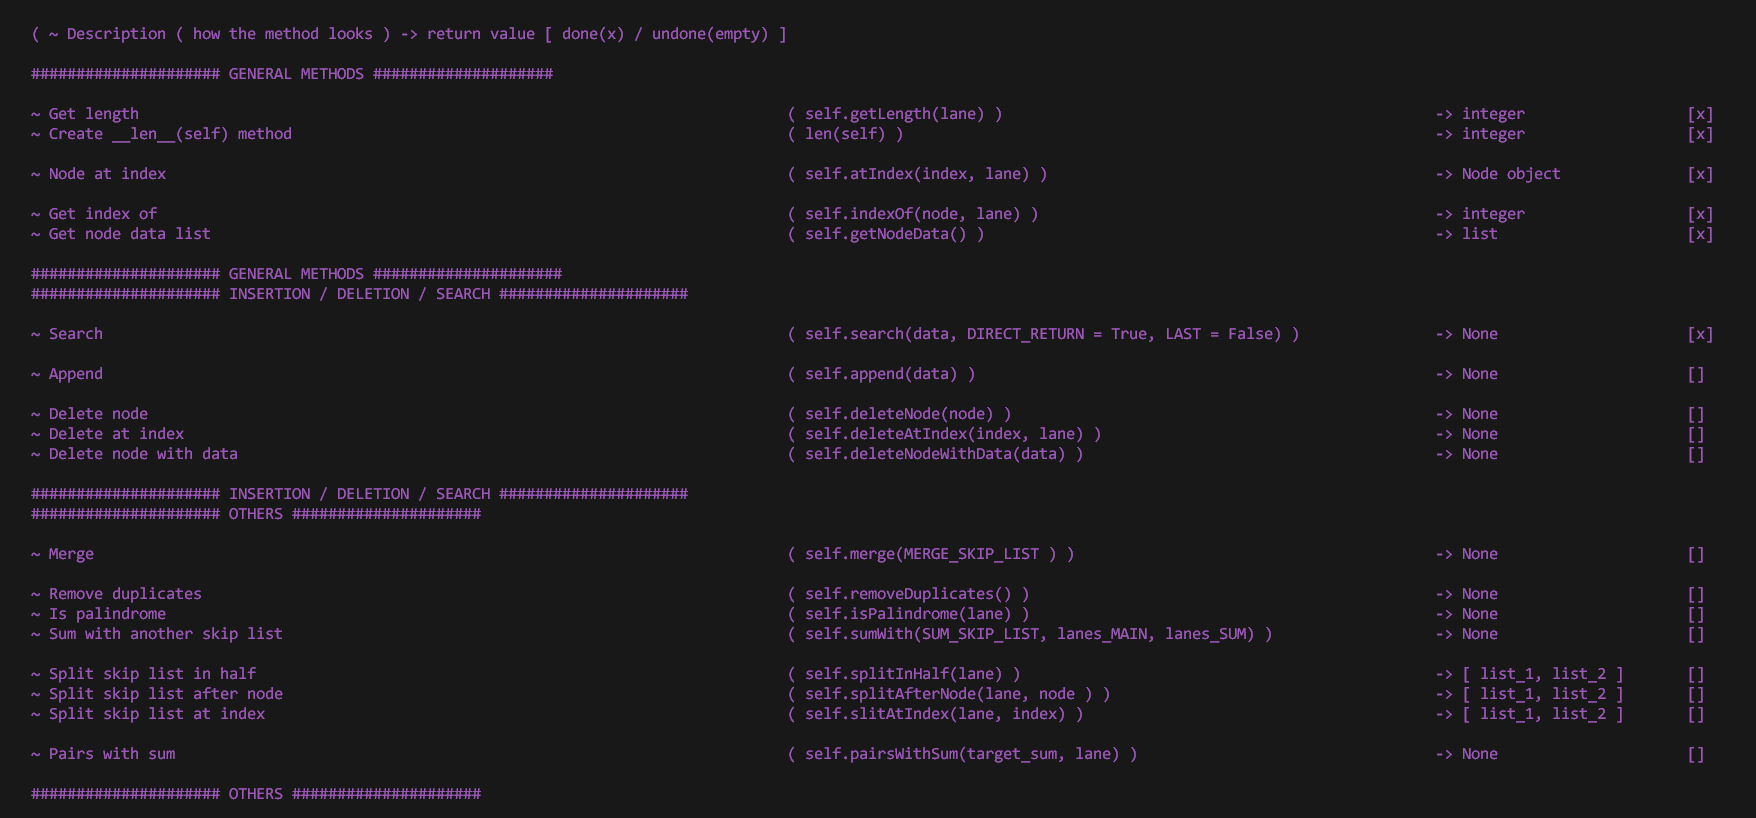
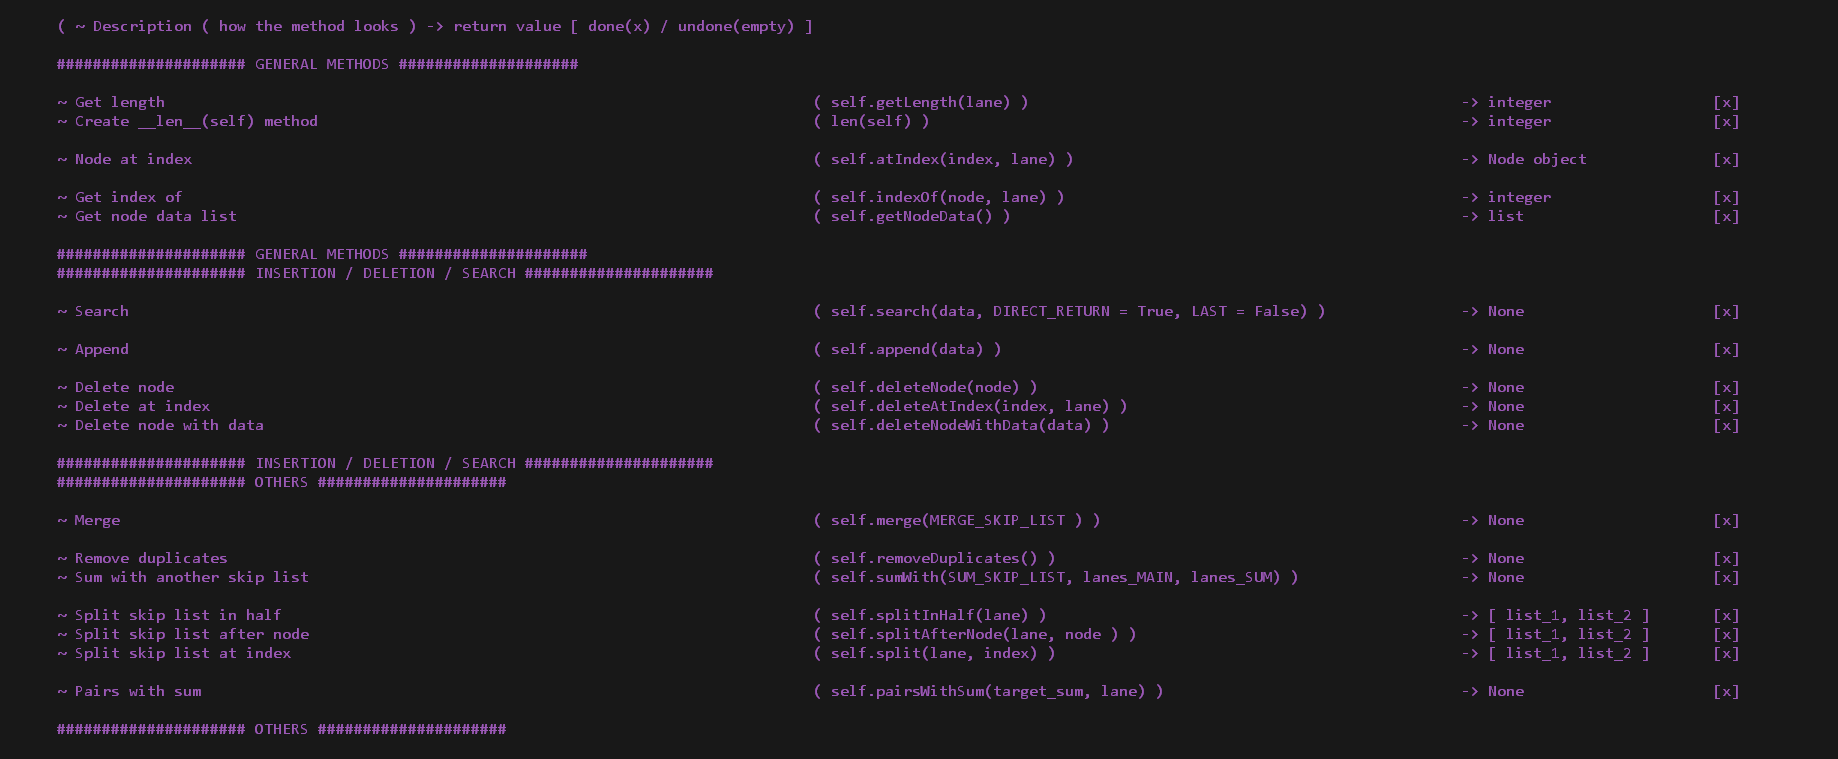
Skip List - Unlimited Lanes - Final Code

diff --git a/Data structures ( code in python )/Linear Data Structures/Skip List ( Python Code )/SkipList_UnlimitedLanes_FinalCode.py b/Data structures ( code in python )/Linear Data Structures/Skip List ( Python Code )/SkipList_UnlimitedLanes_FinalCode.py
@@ -32,26 +32,25 @@ class SkipList(object):
 
         ~ Search                                                                            ( self.search(data, DIRECT_RETURN = True, LAST = False) )               -> None                     [x]
 
-        ~ Append                                                                            ( self.append(data) )                                                   -> None                     []
+        ~ Append                                                                            ( self.append(data) )                                                   -> None                     [x]
 
-        ~ Delete node                                                                       ( self.deleteNode(node) )                                               -> None                     []
-        ~ Delete at index                                                                   ( self.deleteAtIndex(index, lane) )                                     -> None                     []
-        ~ Delete node with data                                                             ( self.deleteNodeWithData(data) )                                       -> None                     []
+        ~ Delete node                                                                       ( self.deleteNode(node) )                                               -> None                     [x]
+        ~ Delete at index                                                                   ( self.deleteAtIndex(index, lane) )                                     -> None                     [x]
+        ~ Delete node with data                                                             ( self.deleteNodeWithData(data) )                                       -> None                     [x]
 
         ##################### INSERTION / DELETION / SEARCH #####################
         ##################### OTHERS #####################
 
-        ~ Merge                                                                             ( self.merge(MERGE_SKIP_LIST ) )                                        -> None                     []
+        ~ Merge                                                                             ( self.merge(MERGE_SKIP_LIST ) )                                        -> None                     [x]
 
-        ~ Remove duplicates                                                                 ( self.removeDuplicates() )                                             -> None                     []
-        ~ Is palindrome                                                                     ( self.isPalindrome(lane) )                                             -> None                     []
-        ~ Sum with another skip list                                                        ( self.sumWith(SUM_SKIP_LIST, lanes_MAIN, lanes_SUM) )                  -> None                     []
+        ~ Remove duplicates                                                                 ( self.removeDuplicates() )                                             -> None                     [x]
+        ~ Sum with another skip list                                                        ( self.sumWith(SUM_SKIP_LIST, lanes_MAIN, lanes_SUM) )                  -> None                     [x]
 
-        ~ Split skip list in half                                                           ( self.splitInHalf(lane) )                                              -> [ list_1, list_2 ]       []
-        ~ Split skip list after node                                                        ( self.splitAfterNode(lane, node ) )                                    -> [ list_1, list_2 ]       []
-        ~ Split skip list at index                                                          ( self.slitAtIndex(lane, index) )                                       -> [ list_1, list_2 ]       []
+        ~ Split skip list in half                                                           ( self.splitInHalf(lane) )                                              -> [ list_1, list_2 ]       [x]
+        ~ Split skip list after node                                                        ( self.splitAfterNode(lane, node ) )                                    -> [ list_1, list_2 ]       [x]
+        ~ Split skip list at index                                                          ( self.split(lane, index) )                                             -> [ list_1, list_2 ]       [x]
 
-        ~ Pairs with sum                                                                    ( self.pairsWithSum(target_sum, lane) )                                 -> None                     []
+        ~ Pairs with sum                                                                    ( self.pairsWithSum(target_sum, lane) )                                 -> None                     [x]
     
         ##################### OTHERS #####################
 
@@ -486,16 +485,6 @@ class SkipList(object):
             for timesDuplicated in range(REPEAT_DICT[REPETITION_KEY]):
                 self.deleteNodeWithData(REPETITION_KEY)
 
-    def isPalindrome(self, lane):
-        ''' Store all the node data from the given lane in a string and find out if the string is the same if we turn it upside down '''
-        # Check the given lane
-        if not 0 <= lane < self.NUMBER_OF_LANES:
-            raise ValueError("The given lane must be between 0 and {0}. The lane that you gave was : {1}".format(self.NUMBER_OF_LANES - 1, lane))
-
-        STRING_ON_LANE = "".join(map(str, self.LAYERS_DATA[lane][0]))
-
-        return STRING_ON_LANE[::-1]
-
     def sumWith(self, SUM_SKIP_LIST, lanes_MAIN, lanes_SUM):
         ''' Return the sum between the main skip list ( self ) and the SUM_SKIP_LIST on the given lanes. '''
         '''
@@ -519,77 +508,104 @@ class SkipList(object):
         '''
 
         # Check the given SUM_SKIP_LIST
-        if type(SUM_SKIP_LIST) == SkipList:
+        if type(SUM_SKIP_LIST) != SkipList:
             raise ValueError("The given SUM_SKIP_LIST argument must be a SkipList. You gave {0} which is of type {1}".format(SUM_SKIP_LIST, type(SUM_SKIP_LIST)))
 
         # Check the given lanes
         CHECK_FUNCTION = lambda node_data : exec("raise ValueError('The given lanes must be something between 0 and {0}') if not 0 <= node_data < {1}".format(self.NUMBER_OF_LANES, self.NUMBER_OF_LANES - 1)) 
         
+        map(CHECK_FUNCTION, lanes_MAIN)
+        map(CHECK_FUNCTION, lanes_SUM)
+
+        # Get all the node data from all the given lanes
+        NodeData_MAIN = list()
+        NodeData_SUM  = list()
+
+        for LAYER_LEVEL in lanes_MAIN:
+            NodeData_MAIN.extend(self.LAYERS_DATA[LAYER_LEVEL][0])
+        
+        for LAYER_LEVEL in lanes_SUM:
+            NodeData_SUM.extend(SUM_SKIP_LIST.LAYERS_DATA[LAYER_LEVEL][0])
+
+        # Filter out all the numbers from both node data lists
+        FILTER_FUNCTION = lambda node_data: type(node_data) == int or type(node_data) == float and node_data != -math.inf
+
+        NodeData_MAIN = list(filter(FILTER_FUNCTION, NodeData_MAIN))
+        NodeData_SUM  = list(filter(FILTER_FUNCTION, NodeData_SUM))
+
+        # Return the sum between both lists
+        return sum(NodeData_MAIN) + sum(NodeData_SUM)
+
+    def splitInHalf(self, lane):
+        ''' Return a list that contains two other lists with the data split in half on the given lane '''
+        # Check the given lane
+        if not 0 <= lane < self.NUMBER_OF_LANES:
+            raise ValueError("The given lane must be between 0 and {0}. You gave : {1}".format(self.NUMBER_OF_LANES - 1, lane))
+
+        LANE_TO_SPLIT = self.LAYERS_DATA[lane][0]
+        LENGTH = self.LAYERS_DATA[lane][-1]
+
+        return [ LANE_TO_SPLIT[:LENGTH // 2], LANE_TO_SPLIT[LENGTH // 2:] ]
+
+    def splitAfterNode(self, lane, node):
+        ''' Return a list that contains two other lists with the data split after the given node on the given lane '''
+        # Check the given lane
+        if not 0 <= lane < self.NUMBER_OF_LANES:
+            raise ValueError("The given lane must be between 0 and {0}. You gave : {1}".format(self.NUMBER_OF_LANES - 1, lane))
+
+        # Check the given node
+        if type(node) != Node:
+            raise ValueError("The given node must be of type node. The value that you gave at the 'node' argument was {0} which is of type {1}".format(node, type(node)))
+
+        # Get the index of the given node on the given lane
+        indexToSplitAt = self.indexOf(node, lane)
+
+        # Return the split data after the found index
+        LANE_TO_SPLIT = self.LAYERS_DATA[lane][0]
+
+        return [ LANE_TO_SPLIT[:indexToSplitAt + 1], LANE_TO_SPLIT[indexToSplitAt + 1:] ]
+
+    def splitAtIndex(self, lane, index):
+        ''' Split the given lane data at the given index '''
+        # Check the given lane
+        if not 0 <= lane < self.NUMBER_OF_LANES:
+            raise ValueError("The given lane must be between 0 and {0}. You gave : {1}".format(self.NUMBER_OF_LANES - 1, lane))
+
+        # Check the given index
+        if not 0 <= index < self.LAYERS_DATA[lane][-1]:
+            raise IndexError("The given index must be between 0 and {0}. You gave : {1}".format(self.LAYERS_DATA[lane][-1] - 1, index))
+
+        # Return the split data at the found index
+        LANE_TO_SPLIT = self.LAYERS_DATA[lane][0]
+
+        return [ LANE_TO_SPLIT[:index], LANE_TO_SPLIT[index:] ]
+
+    def pairsWithSum(self, target_sum, lane):
+        ''' Return all the pairs ( two-number pairs ) of numbers on the given lane that match sum to the given target_sum '''
+        # Check the given lane
+        if not 0 <= lane < self.NUMBER_OF_LANES:
+            raise ValueError("The given lane must be between 0 and {0}. You gave : {1}".format(self.NUMBER_OF_LANES - 1, lane))
+
+        # Check the given target_sum
+        try:
+            target_sum = eval(str(target_sum))
+        except Exception:
+            raise ValueError("The given target_sum must be a number. You gave : {0}, which is of type {1}".format(target_sum, type(target_sum)))
+        
+        # Set up the PAIRS list and get all the node data from the given lane
+        PAIRS = list()
+        NODE_DATA = self.LAYERS_DATA[lane][0]
+
+        # Filter out everything that is not a number or that is (-math.inf) from the given lane
+        FILTER_FUNCTION = lambda node_value : type(node_value) == int or type(node_value) == float and node_value != -math.inf
+
+        NODE_DATA = list(filter(FILTER_FUNCTION, NODE_DATA))
+
+        for permutation in itertools.permutations(NODE_DATA, 2):
+            if sum(permutation) == target_sum and permutation not in PAIRS and permutation[::-1] not in PAIRS:
+                PAIRS.append(tuple(permutation))
+        
+        # Return the pairs of numbers which summed are the target_sum on the given lane
+        return PAIRS
 
     ##################### OTHERS #####################
-
-SL = SkipList(5)
-XL = SkipList(5)
-
-##################################### TEST CODE #####################################
-
-for i in range(1, 7):
-    SL.append(i)
-
-for i in range(4, 7):
-    XL.append(i)
-
-print("----------------------------------------------------------------------------------------------")
-
-
-
-print("----------------------------------------------------------------------------------------------")
-
-##################################### TEST CODE #####################################
-
-for i in range(3):
-    print()
-
-##################################### HEAD & LAST NODES #####################################
-
-print("HEAD & LAST NODES -- > ")
-print()
-for LAYER_LEVEL in range(SL.NUMBER_OF_LANES-1, -1, -1):
-    print("{0} -- > {1} // {2}".format(LAYER_LEVEL, eval("SL.head{0}.data".format(LAYER_LEVEL)), eval("SL.last{0}.data".format(LAYER_LEVEL))))
-print()
-print("< -- HEAD & LAST NODES ")
-
-##################################### HEAD & LAST NODES #####################################
-
-for i in range(3):
-    print()
-
-##################################### AUTOMATIC ITERATION #####################################
-
-print("AUTOMATIC ITERATION -- > ")
-print()
-for LAYER_LEVEL in range(SL.NUMBER_OF_LANES-1, -1, -1):
-    NODE_DATA_LIST = list()
-    exec("current = SL.head{0}\nwhile current:\n\tNODE_DATA_LIST.append(current.data)\n\tcurrent = current.next".format(LAYER_LEVEL))
-    print("{0} -- > {1}".format(LAYER_LEVEL, NODE_DATA_LIST))
-print()
-print("< -- AUTOMATIC ITEARTION ")
-
-##################################### AUTOMATIC ITERATION #####################################
-
-for i in range(3):
-    print()
-
-##################################### LAYERS DATA #####################################
-
-print("LAYERS DATA -- > ")
-print()
-for LAYER_LEVEL in list(SL.LAYERS_DATA.keys())[::-1]:
-    print("{0} -- > {1}".format(LAYER_LEVEL, SL.LAYERS_DATA[LAYER_LEVEL]))
-print()
-print("< -- LAYERS DATA ")
-
-##################################### LAYERS DATA #####################################
-
-for i in range(3):
-    print()
